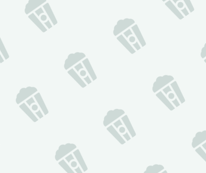
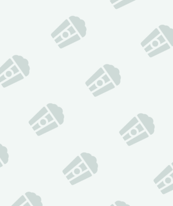
change_background

diff --git a/application/style/style.css b/application/style/style.css
@@ -75,7 +75,17 @@ content h2 {
     gap: 10px;
     width: 50%;
     font-family: 'Pacifico  ', cursive;
-    
+    justify-content: center;
+    align-items: center;
+
+}
+.friend_list_container{
+
+
+    justify-content: center;
+    align-items: center;
+
+
 
 }
 .friend {
@@ -116,12 +126,15 @@ content h2 {
     margin: 0; 
     padding-top:30px;
     font-size: 2.5em;
+    justify-content: center;
+    
 }
 body{
 
     
         background-image: 
-        url("https://i.postimg.cc/8cxLc5Qn/background.png");
+        url("https://i.postimg.cc/DyxyhDhR/background-Test.png");
+        
         
         background-repeat: repeat;
  

diff --git a/application/home.html b/application/home.html
@@ -32,7 +32,8 @@
         <div id="add_friend">
         <!-- Implement this UI! ~ Dovidas Z. -->
         </div>
-        <div id="invite_friend_container">
+        <div id="friend_list_container">
+            <div id="invite_friend_container">
             <h2 id="header_up_friend" > Find movie with friend </h2>
             <div class="friend">
                 <div class="friend_left_side">
@@ -48,5 +49,6 @@
                 </div></a>
             </div>
         </div>
+    </div>
     </body>
 </html>
